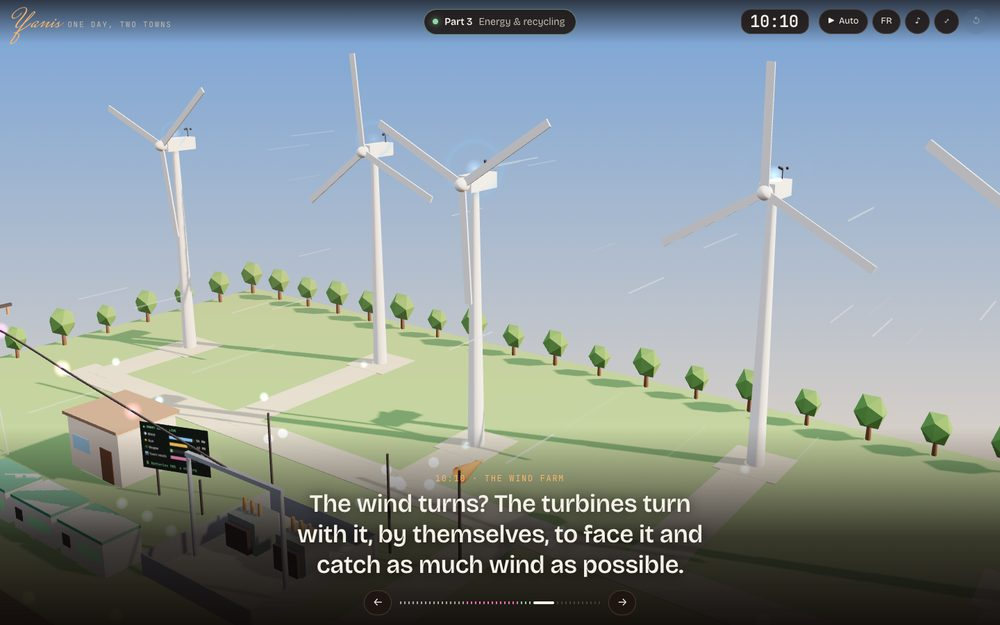
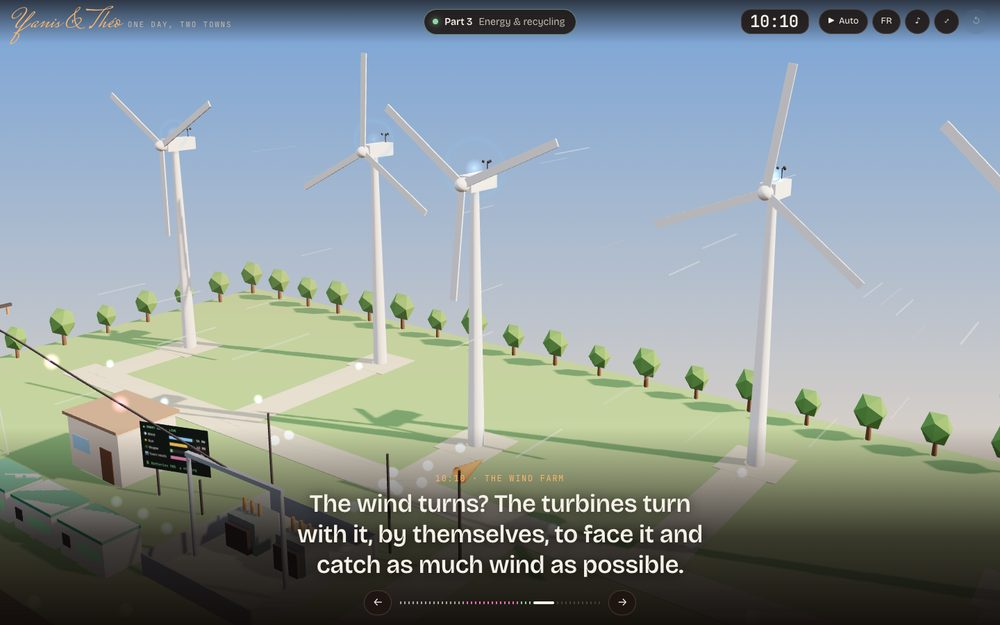
Yanis & Théo : les deux noms sur le tableau, les téléphones et le README
- Signature « Yanis & Théo » (en-tête, écran titre, citation finale,
  page téléphone) ; « IT technicians », « for us ».
- Sur un tableau très étroit, la signature laisse la place à l'horloge.
- Captures du README refaites.

diff --git a/index.html b/index.html
@@ -15,7 +15,7 @@
 <div id="bubbles" aria-hidden="true"></div>
 
 <header class="top">
-  <div class="brand"><span class="sig">Yanis</span><span class="sub">One day, two towns</span></div>
+  <div class="brand"><span class="sig">Yanis &amp; Théo</span><span class="sub">One day, two towns</span></div>
   <div class="chip" id="chip"><i class="dot"></i><b id="chip-a">Part 1</b><span id="chip-b">An ordinary town</span></div>
   <div class="right">
     <div class="day" id="day"><span class="clk" id="clk">06:45</span><span class="lost"><small>Time lost today</small><b id="lost">0 min</b></span></div>
@@ -34,7 +34,7 @@
   <p class="eyebrow">English oral · Smart cities</p>
   <h1>One day,<br>two towns.</h1>
   <p class="q">How do we convince people that a smart city is good for their way of life?</p>
-  <p class="by"><span class="sig">Yanis</span><span>IT technician at the town hall · BTS CIEL</span></p>
+  <p class="by"><span class="sig">Yanis &amp; Théo</span><span>IT technicians at the town hall · BTS CIEL</span></p>
   <button class="cta" id="start">Follow Tom <span aria-hidden="true">→</span></button>
   <aside class="join" id="join" hidden>
     <div class="qr" data-qr></div>
@@ -74,9 +74,9 @@
 </section>
 
 <section class="final" id="final" hidden>
-  <p class="eyebrow">What a smart city is, for me</p>
+  <p class="eyebrow">What a smart city is, for us</p>
   <blockquote>Not a city full of sensors.<br>A city that gives you back <em>your time</em>, and protects <em>your privacy</em>.</blockquote>
-  <p class="by"><span class="sig">Yanis</span></p>
+  <p class="by"><span class="sig">Yanis &amp; Théo</span></p>
 </section>
 
 <div class="qrbig" id="qrbig" hidden role="dialog" aria-label="Join on your phone">

diff --git a/phone/index.html b/phone/index.html
@@ -12,7 +12,7 @@
 </head>
 <body>
 <header class="bar">
-  <span class="sig">Yanis</span>
+  <span class="sig">Yanis &amp; Théo</span>
   <span class="status" id="status"><i></i><span id="status-t">Live</span></span>
   <div class="lang" role="group" aria-label="Language">
     <button id="l-en" aria-pressed="true">EN</button><button id="l-fr" aria-pressed="false">FR</button>
@@ -65,7 +65,7 @@
   <section class="poll" id="poll" hidden></section>
 
   <section class="thanks" id="thanks" hidden>
-    <p class="sig">Yanis</p>
+    <p class="sig">Yanis &amp; Théo</p>
     <p data-t="thanks"></p>
   </section>
 </main>

diff --git a/css/style.css b/css/style.css
@@ -175,6 +175,7 @@ body.rewinding #scene{filter:contrast(1.15) saturate(.4) hue-rotate(-10deg)}
 }
 @media (max-width:600px){
   .actions #b-auto,.actions #b-full{display:none}
+  .brand{display:none}   /* too narrow for the signature: the clock and the buttons matter more */
   .cols{grid-template-columns:1fr}
   .board{top:calc(50% - 40px)}
   .col{padding:12px 14px}

diff --git a/README.md b/README.md
@@ -182,5 +182,5 @@ smart-city/
 <br>
 
 <div align="center">
-<sub>Fait par <a href="https://yanis.pro">Yanis</a> · BTS CIEL</sub>
+<sub>Fait par <a href="https://yanis.pro">Yanis</a> &amp; Théo · BTS CIEL</sub>
 </div>
